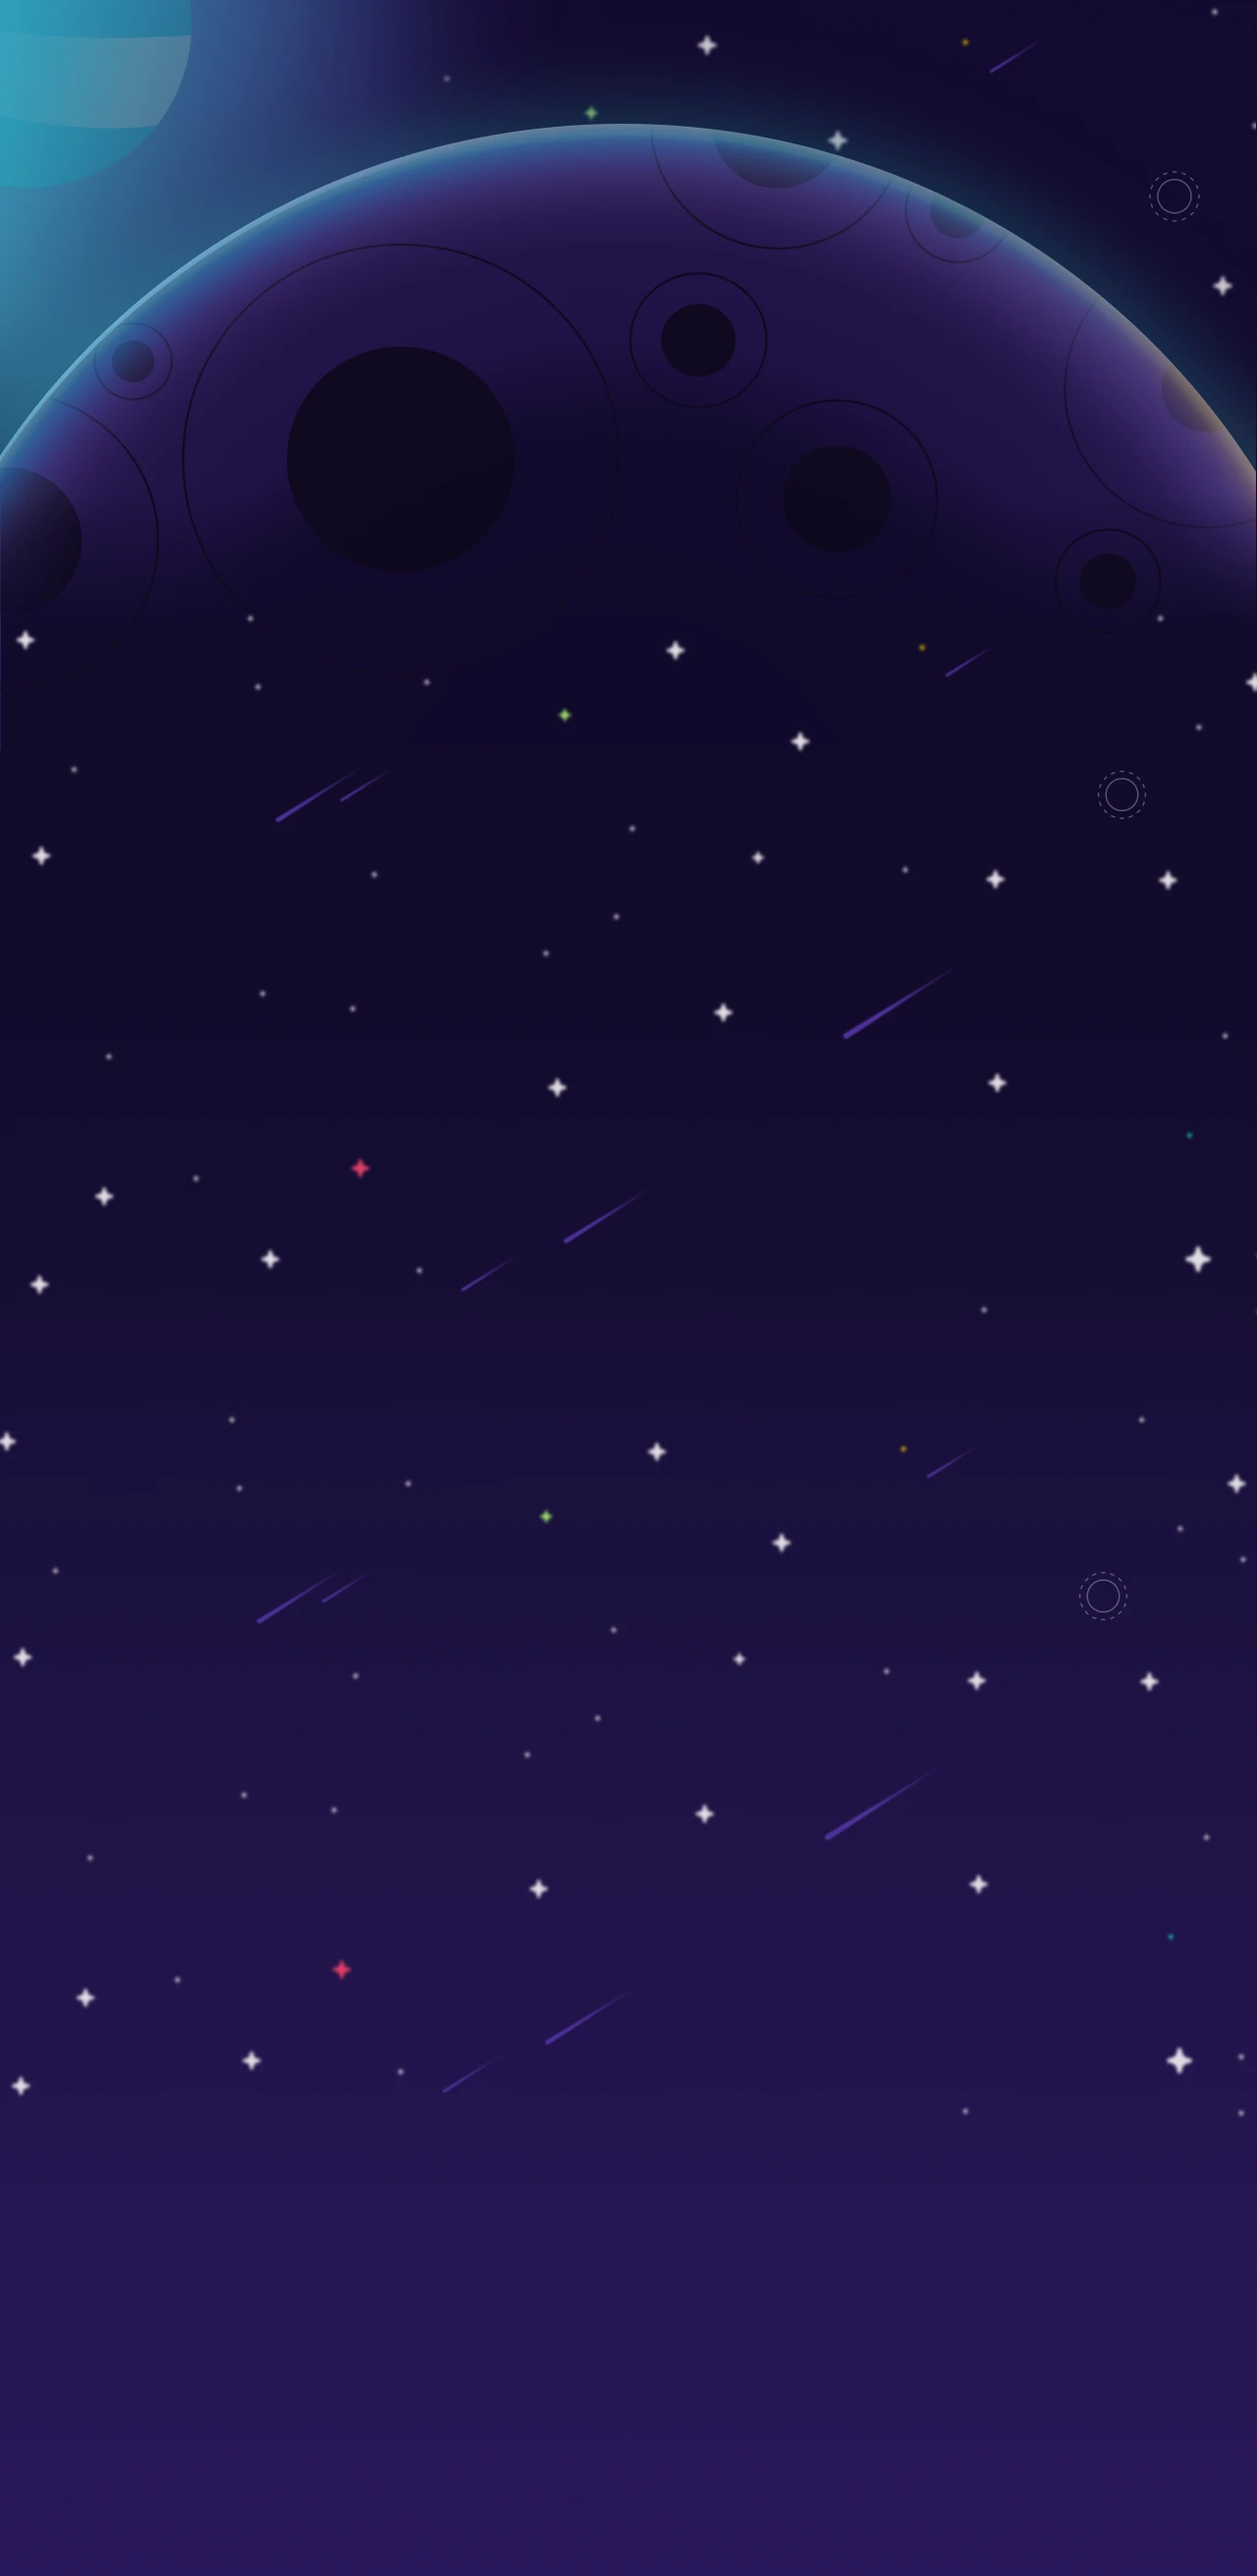
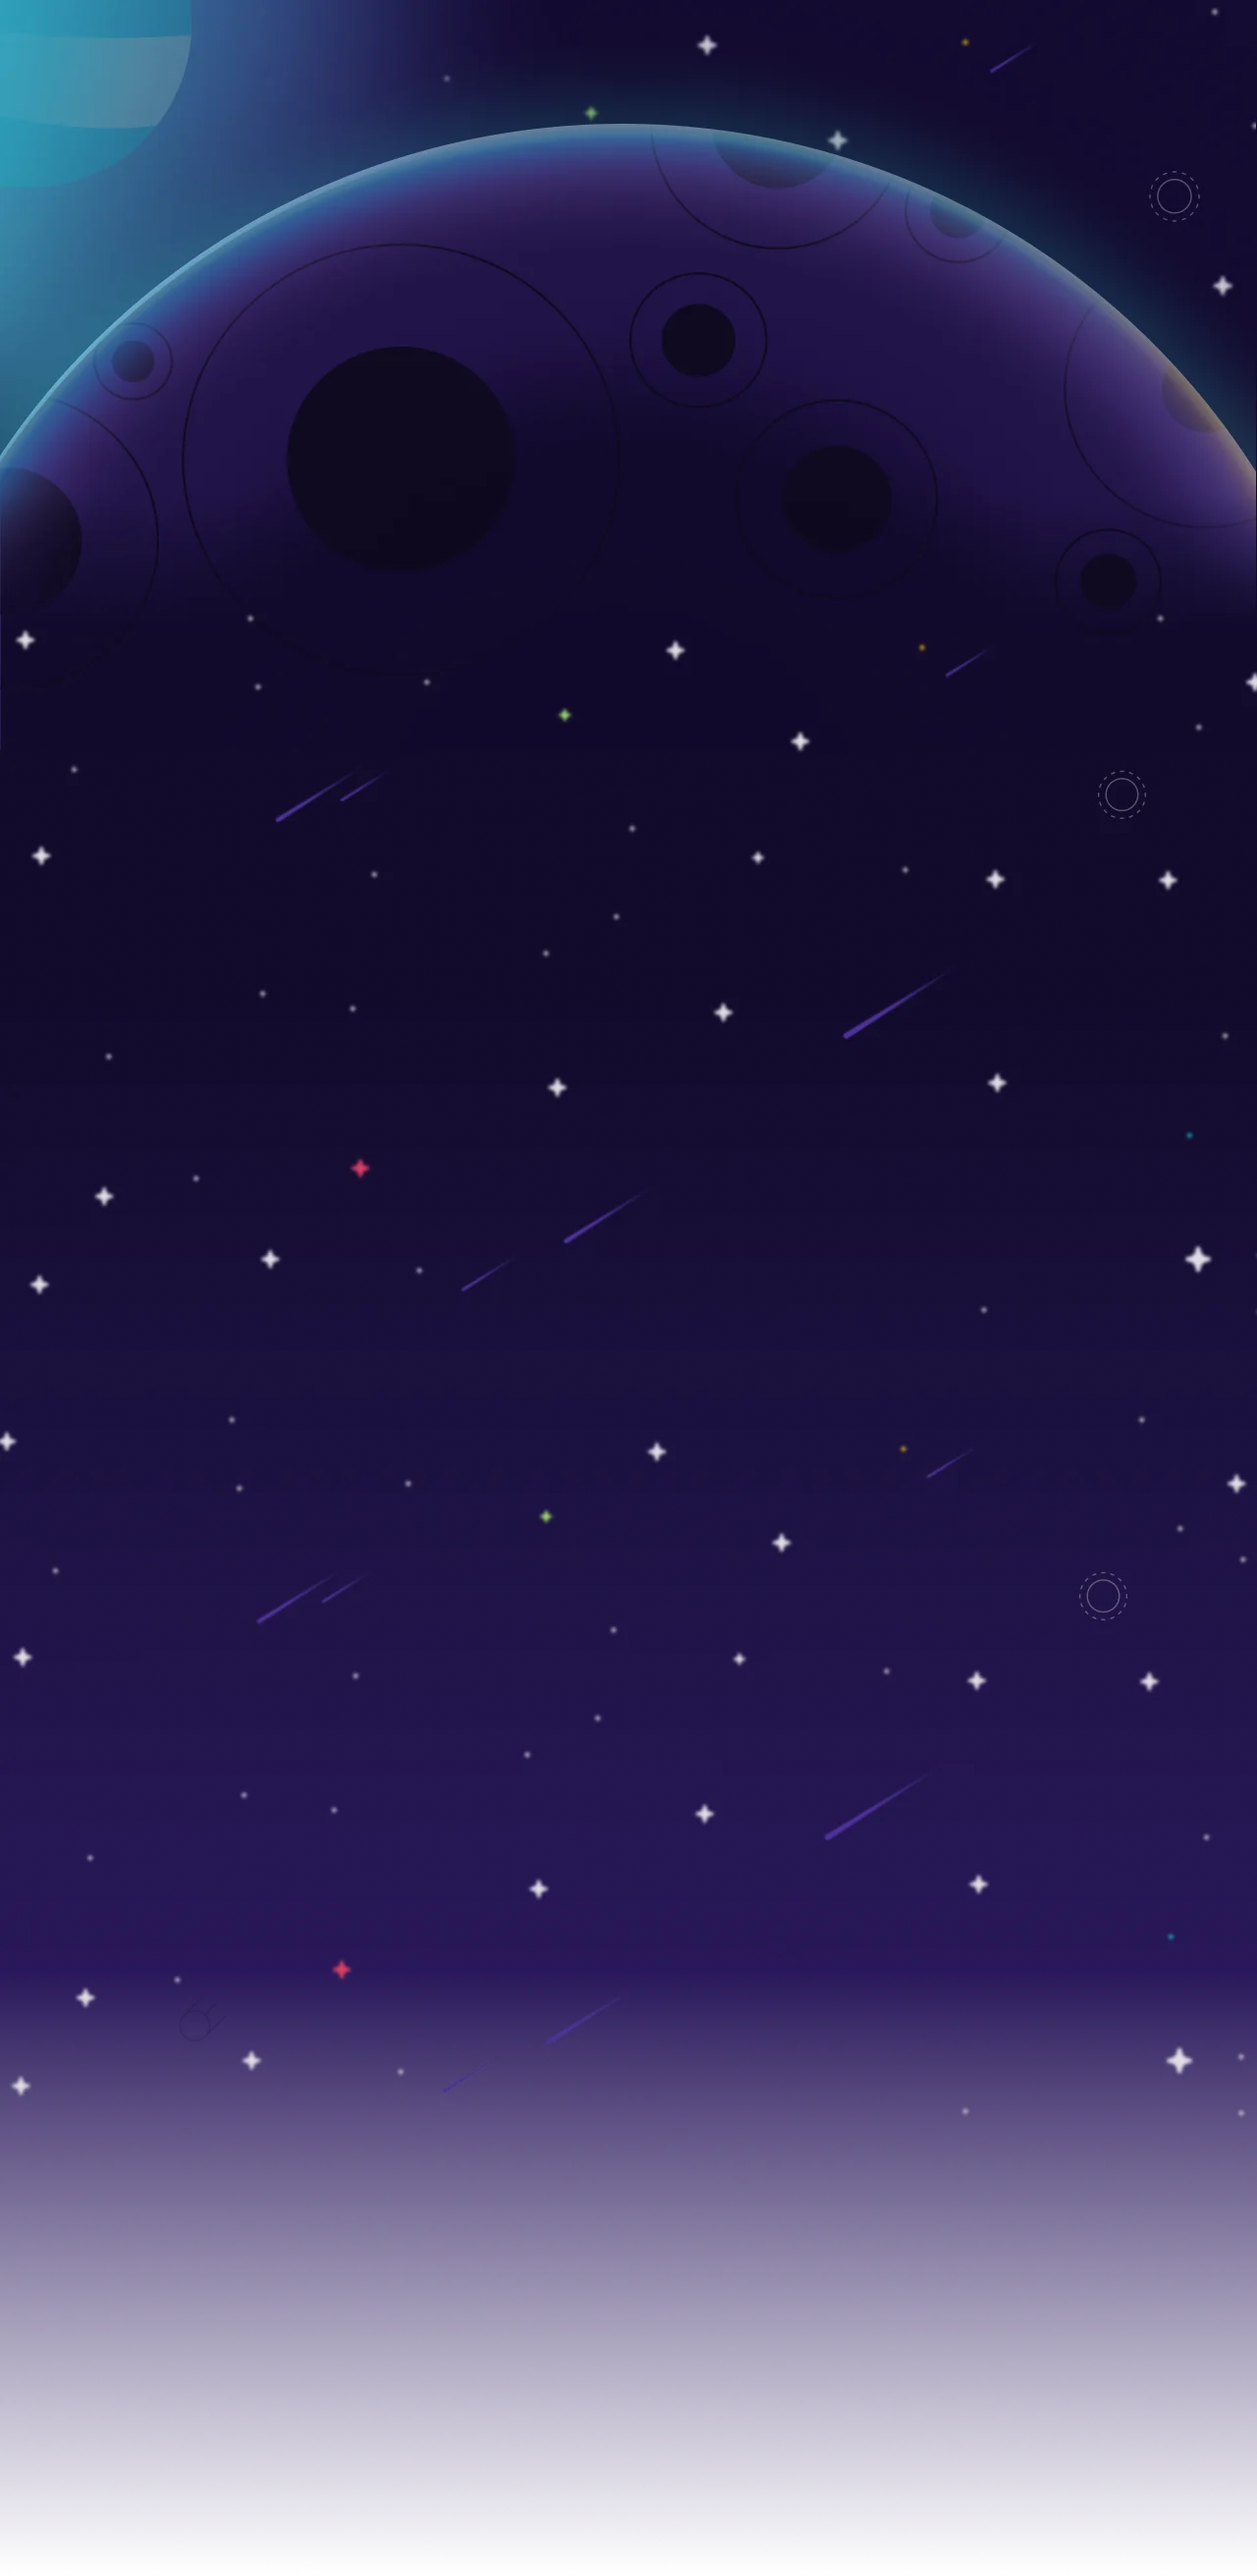
style: update global font size and refine hero section styling with new asset and color token

Changed region(s): [[0.0, 0.772, 1.0, 1.0]]

diff --git a/src/scss/style.scss b/src/scss/style.scss
@@ -13,7 +13,7 @@ html {
 
 body {
   font-family: "SpaceMono", sans-serif;
-  font-size: 16px;
+  font-size: 18px;
   line-height: 2;
   box-sizing: border-box;
   color: $text-color-default;
@@ -78,12 +78,8 @@ body {
   background-size: contain;
   background-repeat: no-repeat;
   color: #fff;
-  background-color: #281759;
+  background-color: $neutral-900;
   overflow: hidden;
-
-  @include breakpoint(desktop) {
-    background-size: cover;
-  }
 
   .planet-pink {
     z-index: 0;
